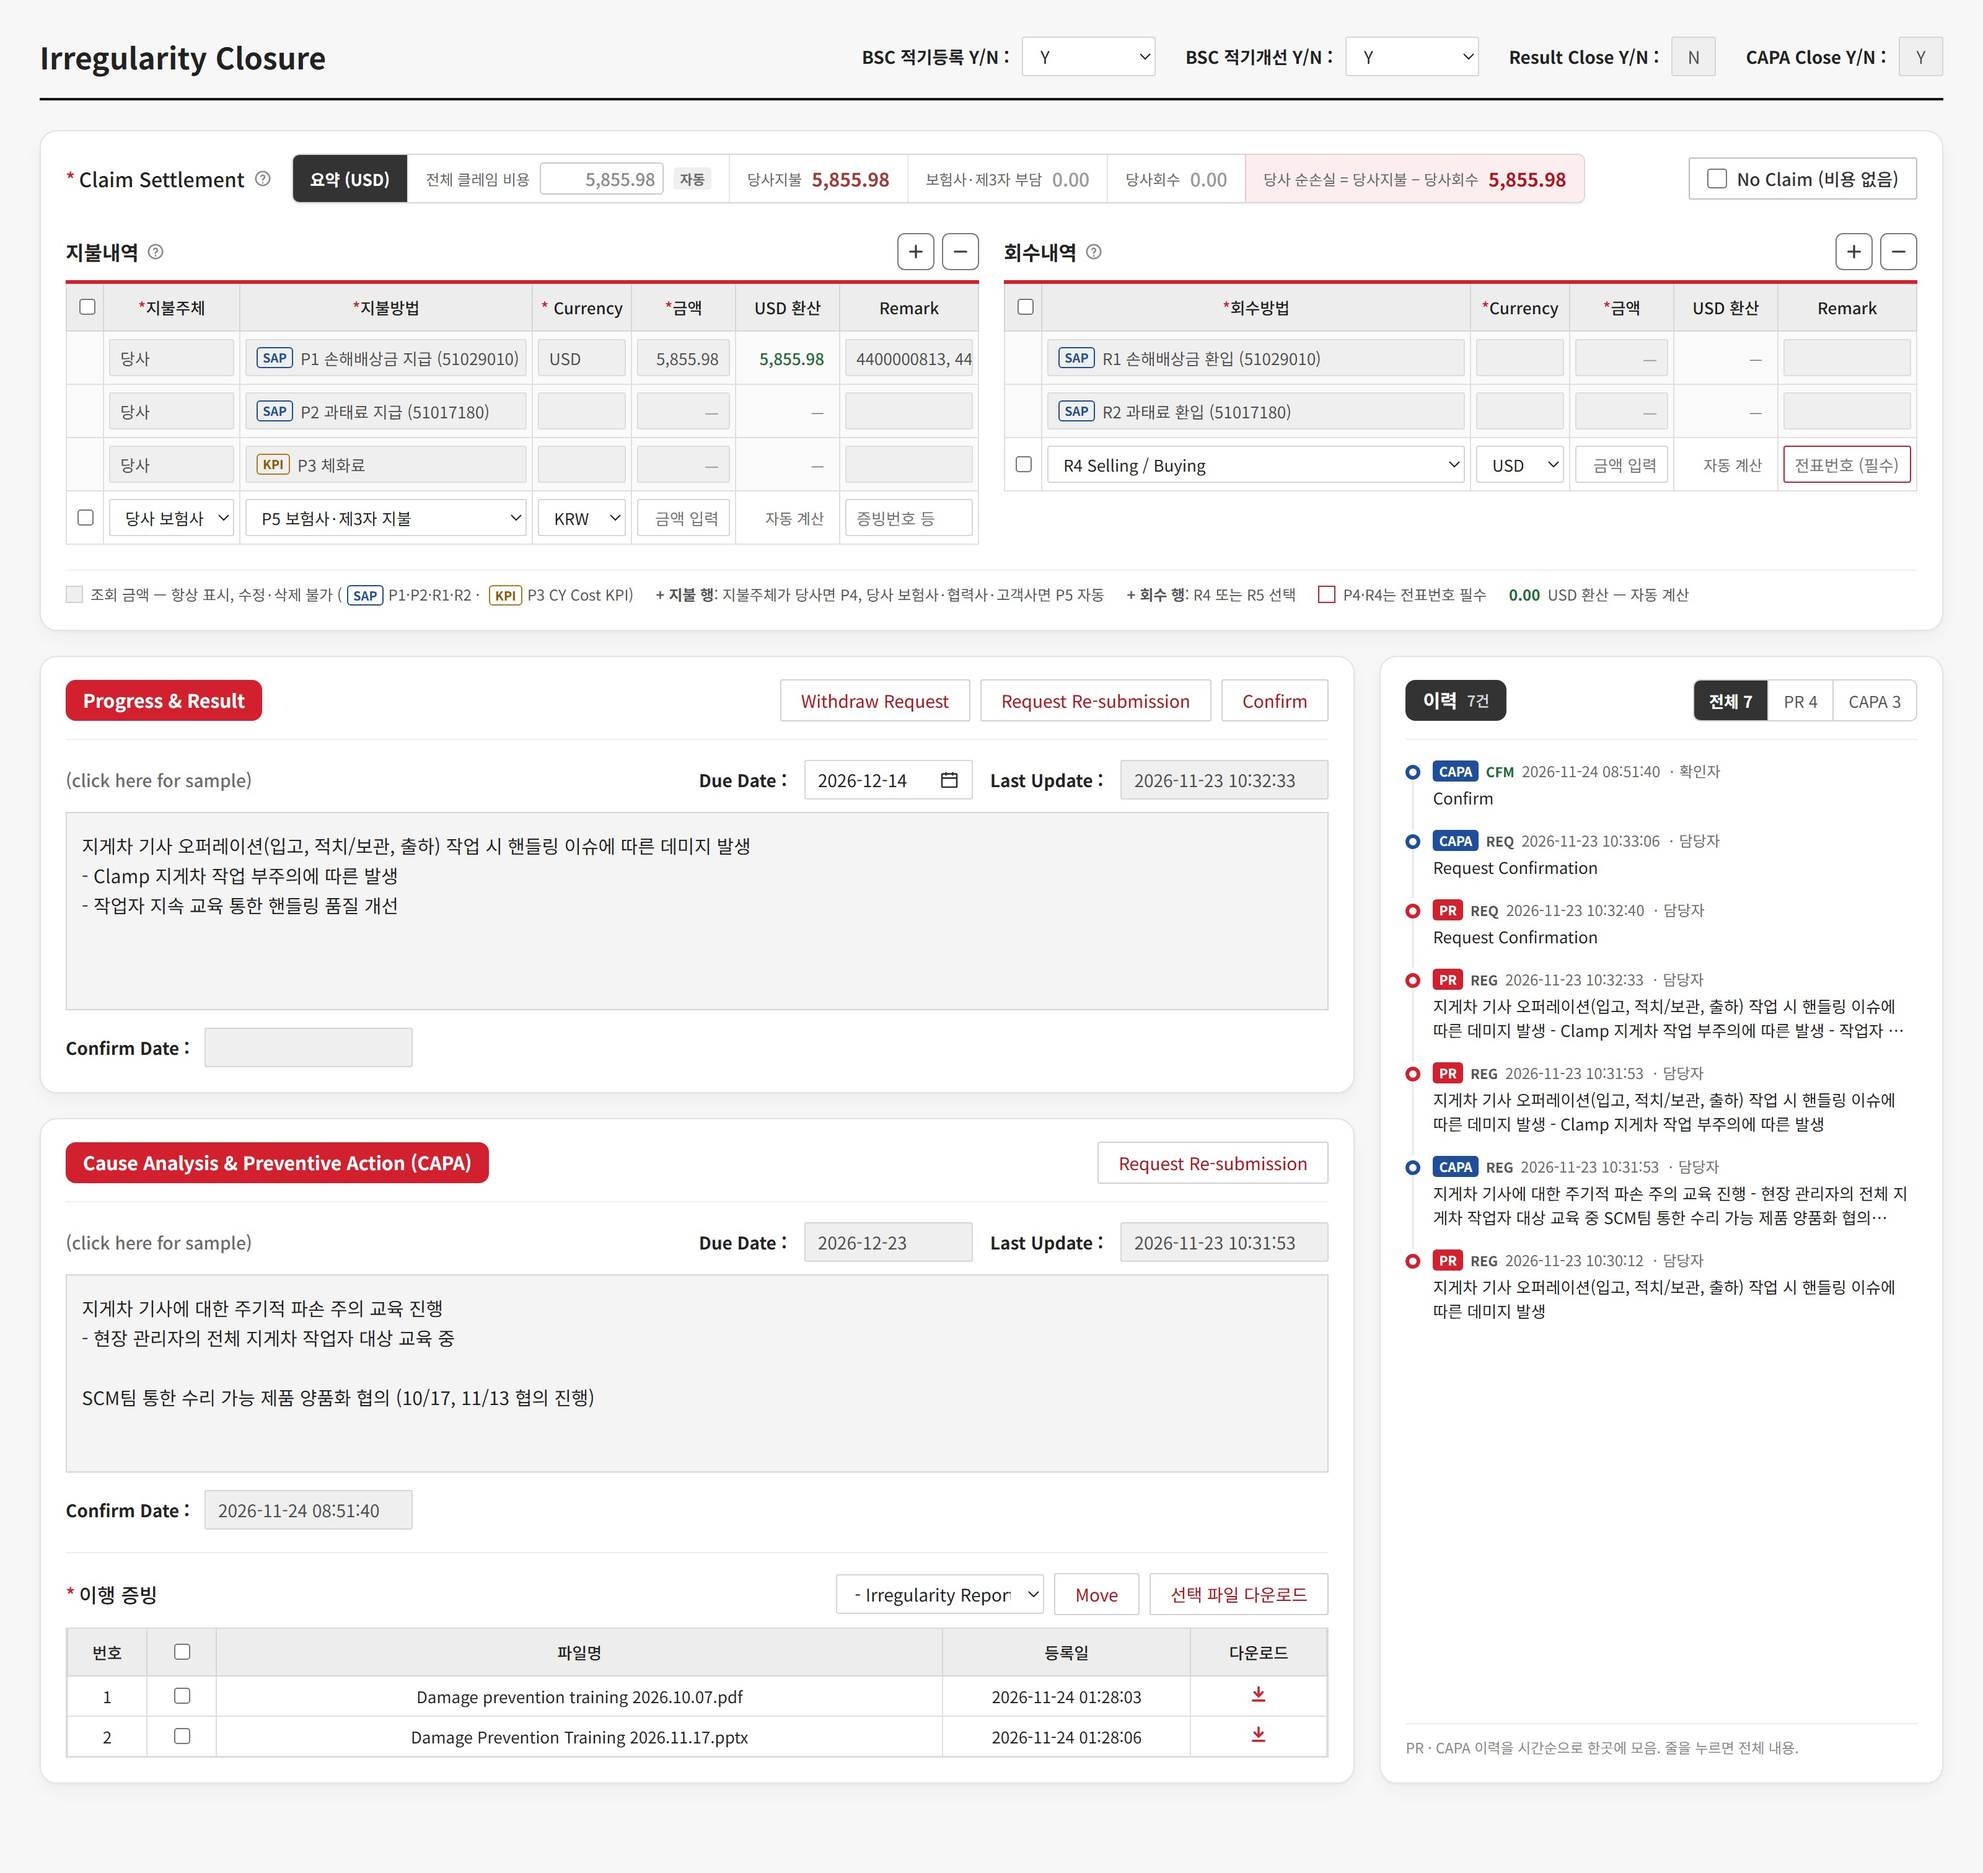
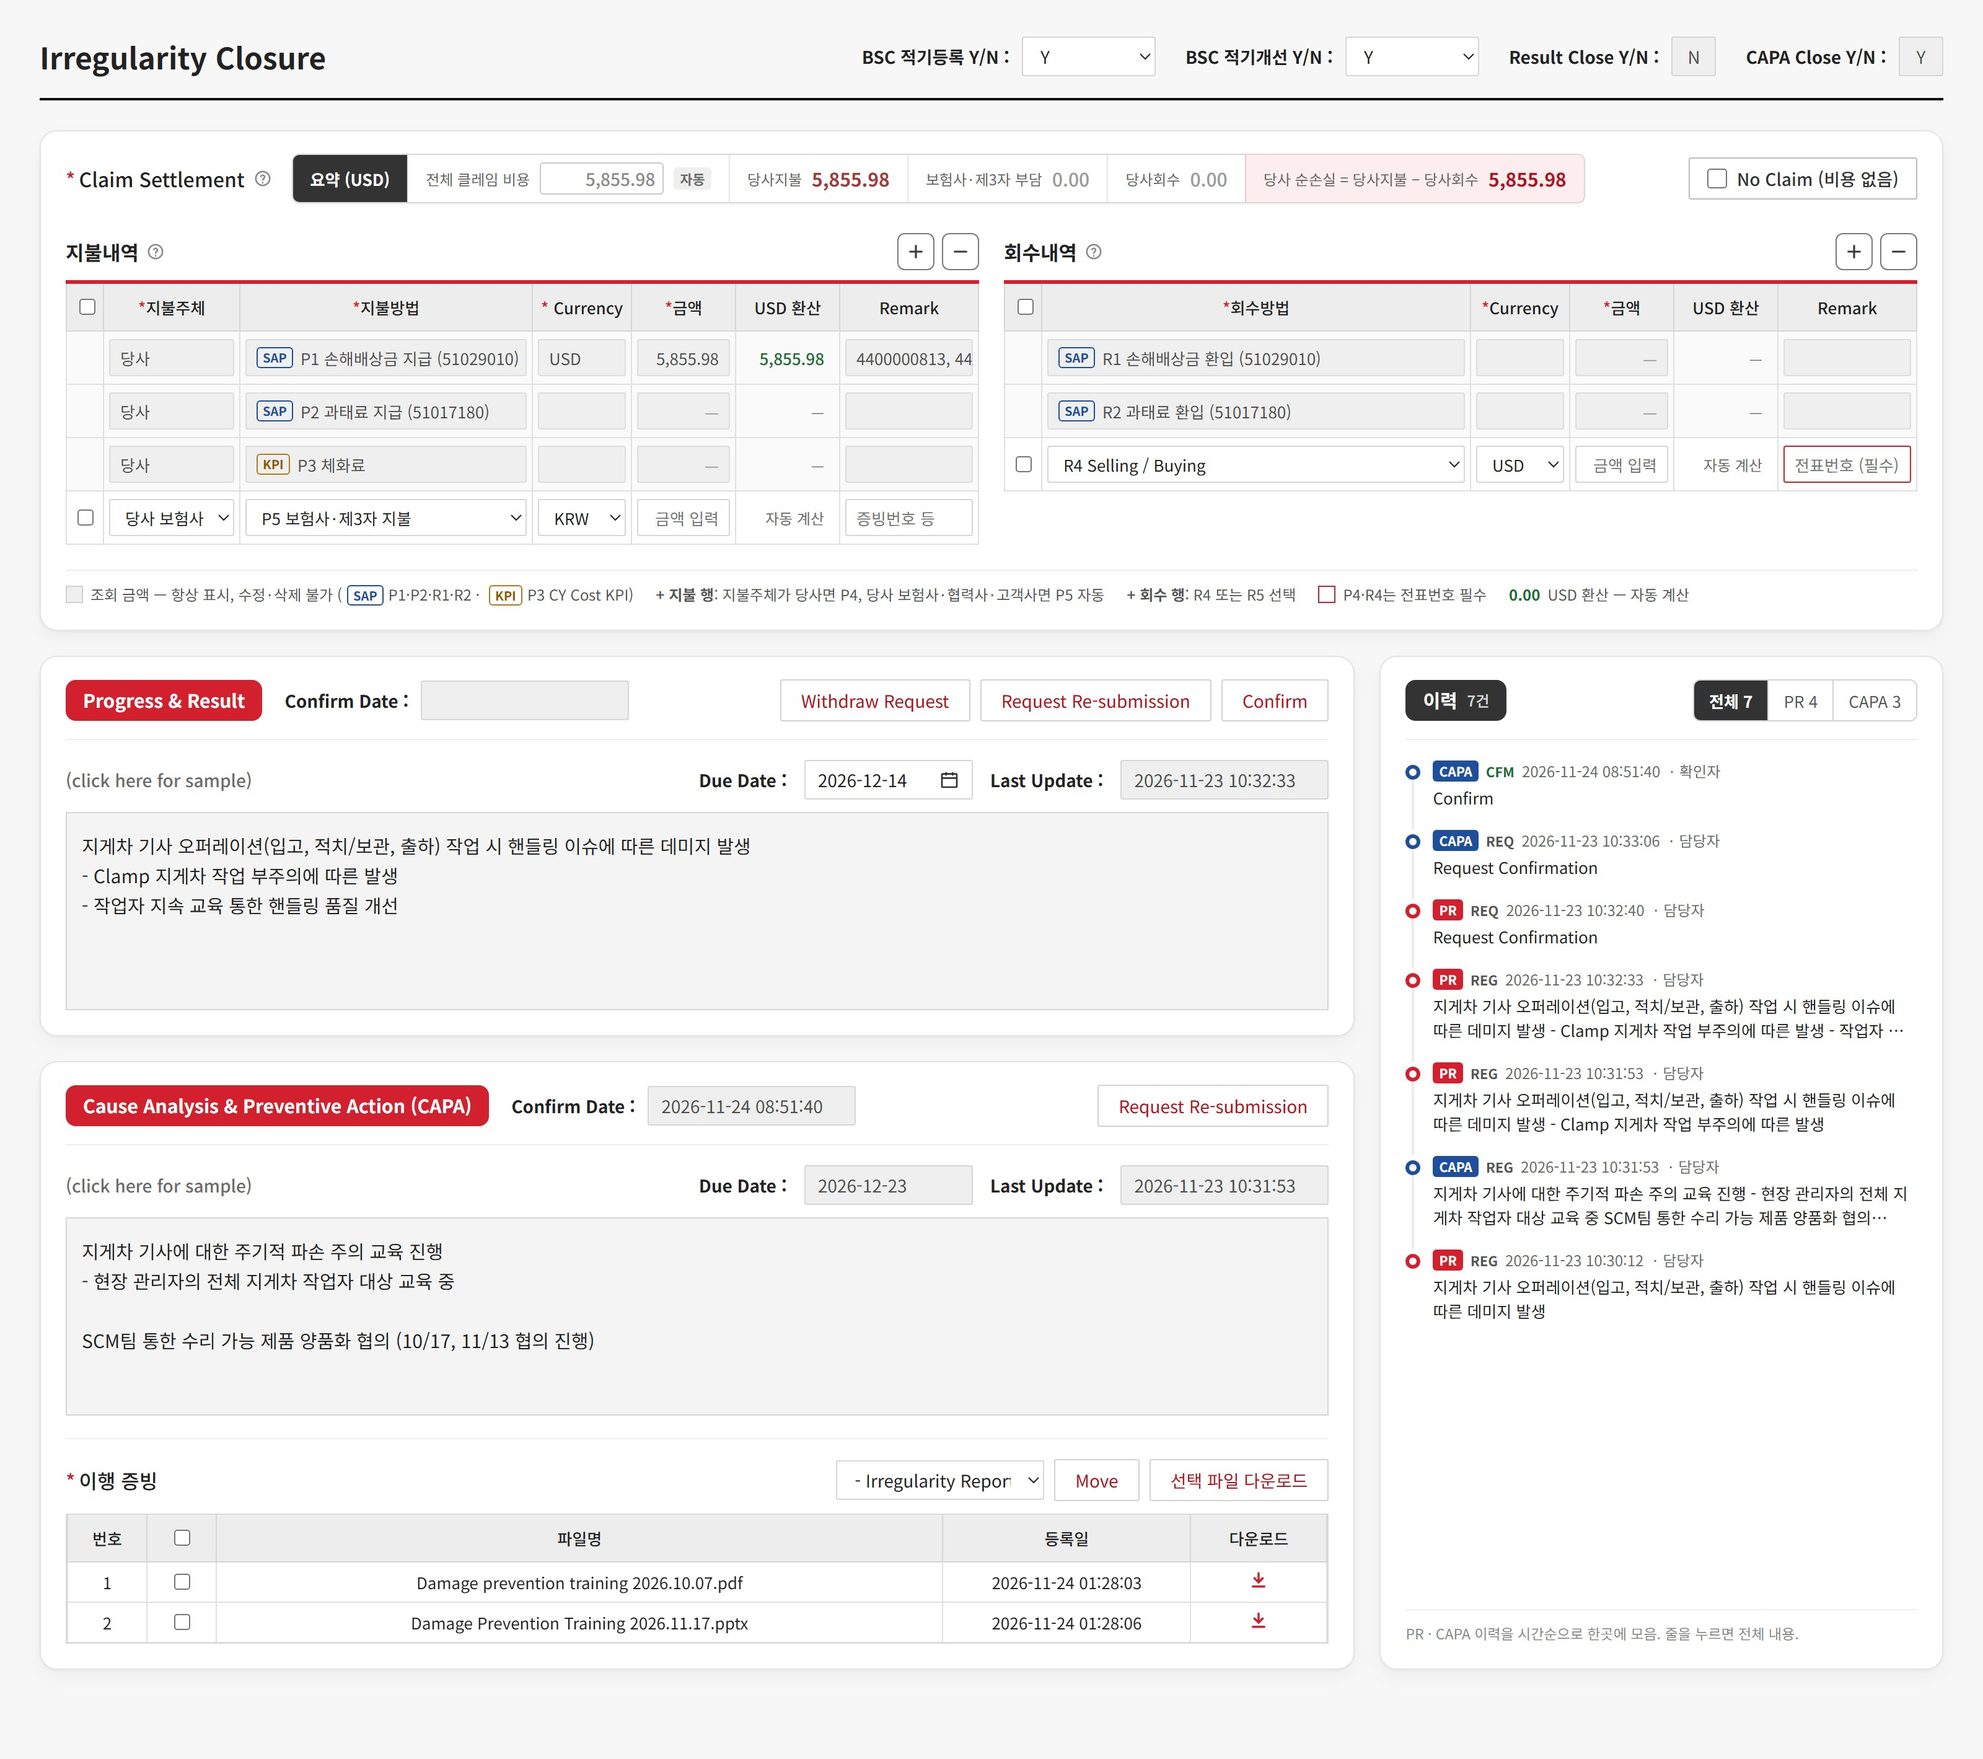
QMS sidebar mockup: Confirm Date next to zone title

diff --git a/share/qms-claim-closure-sidebar.html b/share/qms-claim-closure-sidebar.html
@@ -84,12 +84,14 @@ a{color:#B3121F}a:hover{color:#7E0C16}
 .flow.cs-top .sbl{margin-top:20px}
 .zone{background:#fff;border:1px solid #E3E3E3;border-radius:14px;padding:18px 20px 20px;box-shadow:0 1px 2px rgba(0,0,0,0.04),0 6px 16px rgba(0,0,0,0.04);min-width:0}
 .zhead{display:flex;flex-wrap:wrap;align-items:center;justify-content:space-between;gap:8px 10px;padding-bottom:14px;margin-bottom:16px;border-bottom:1px solid #EEEEEE}
-.zhead .btns{display:flex;flex-wrap:wrap;justify-content:flex-end;gap:8px}
+.zhead .btns{display:flex;flex-wrap:wrap;justify-content:flex-end;gap:8px;margin-left:auto}
 .zt{display:inline-flex;align-items:center;gap:8px;font-size:15px;font-weight:700;color:#fff;background:#D3202F;border-radius:8px;padding:7px 14px;line-height:1.25}
 .zt.dark{background:#333}.zt .cnt{font-size:12px;font-weight:500;opacity:.8}
 .zone .panel{padding:0;background:none}
 .zone section[aria-label="Claim Settlement"]{padding:0 !important;background:none !important;border:0 !important}
-.confirm{display:flex;align-items:center;gap:12px;margin:14px 0 0}
+.zl{display:flex;flex-wrap:wrap;align-items:center;gap:8px 18px;min-width:0}
+.confirm{display:flex;align-items:center;gap:10px;margin:0}
+.zhead .confirm .lbl{white-space:nowrap}
 .evsec{margin-top:18px;padding-top:16px;border-top:1px solid #EEEEEE}
 .evhead{display:flex;flex-wrap:wrap;align-items:center;justify-content:space-between;gap:8px 12px;margin-bottom:10px}
 .evbox{max-height:var(--ev-h,112px);overflow-y:auto;border:1px solid #DADADA}
@@ -145,7 +147,7 @@ a{color:#B3121F}a:hover{color:#7E0C16}
 <div class="sbl">
 <div class="mainc">
 <section aria-label="Progress and Result" class="zone">
-<div class="zhead"><span class="zt">Progress &amp; Result</span>
+<div class="zhead"><div class="zl"><span class="zt">Progress &amp; Result</span><div class="confirm"><span class="lbl">Confirm Date :</span><span class="fld ro" style="width: 168px;"></span></div></div>
 <div class="btns"><button class="btn" type="button">Withdraw Request</button><button class="btn" type="button">Request Re-submission</button><button class="btn" type="button">Confirm</button></div></div>
 <div class="panel">
 <div style="display: flex; flex-wrap: wrap; align-items: center; justify-content: space-between; gap: 10px; margin-bottom: 10px;">
@@ -158,11 +160,10 @@ a{color:#B3121F}a:hover{color:#7E0C16}
 <div class="memo">지게차 기사 오퍼레이션(입고, 적치/보관, 출하) 작업 시 핸들링 이슈에 따른 데미지 발생
  - Clamp 지게차 작업 부주의에 따른 발생
  - 작업자 지속 교육 통한 핸들링 품질 개선</div>
-<div class="confirm"><span class="lbl">Confirm Date :</span><span class="fld ro" style="width: 168px;"></span></div>
 </div>
 </section>
 <section aria-label="Cause Analysis and Preventive Action" class="zone">
-<div class="zhead"><span class="zt">Cause Analysis &amp; Preventive Action (CAPA)</span>
+<div class="zhead"><div class="zl"><span class="zt">Cause Analysis &amp; Preventive Action (CAPA)</span><div class="confirm"><span class="lbl">Confirm Date :</span><span class="fld ro" style="width: 168px;">2026-11-24 08:51:40</span></div></div>
 <div class="btns"><button class="btn" type="button">Request Re-submission</button></div></div>
 <div class="panel">
 <div style="display: flex; flex-wrap: wrap; align-items: center; justify-content: space-between; gap: 10px; margin-bottom: 10px;">
@@ -176,7 +177,6 @@ a{color:#B3121F}a:hover{color:#7E0C16}
  - 현장 관리자의 전체 지게차 작업자 대상 교육 중
 
 SCM팀 통한 수리 가능 제품 양품화 협의 (10/17, 11/13 협의 진행)</div>
-<div class="confirm"><span class="lbl">Confirm Date :</span><span class="fld ro" style="width: 168px;">2026-11-24 08:51:40</span></div>
 </div>
 <div class="evsec">
 <div class="evhead"><h2 class="cs-h"><span class="req">*</span>이행 증빙</h2><div style="display: flex; flex-wrap: wrap; align-items: center; gap: 8px;">
